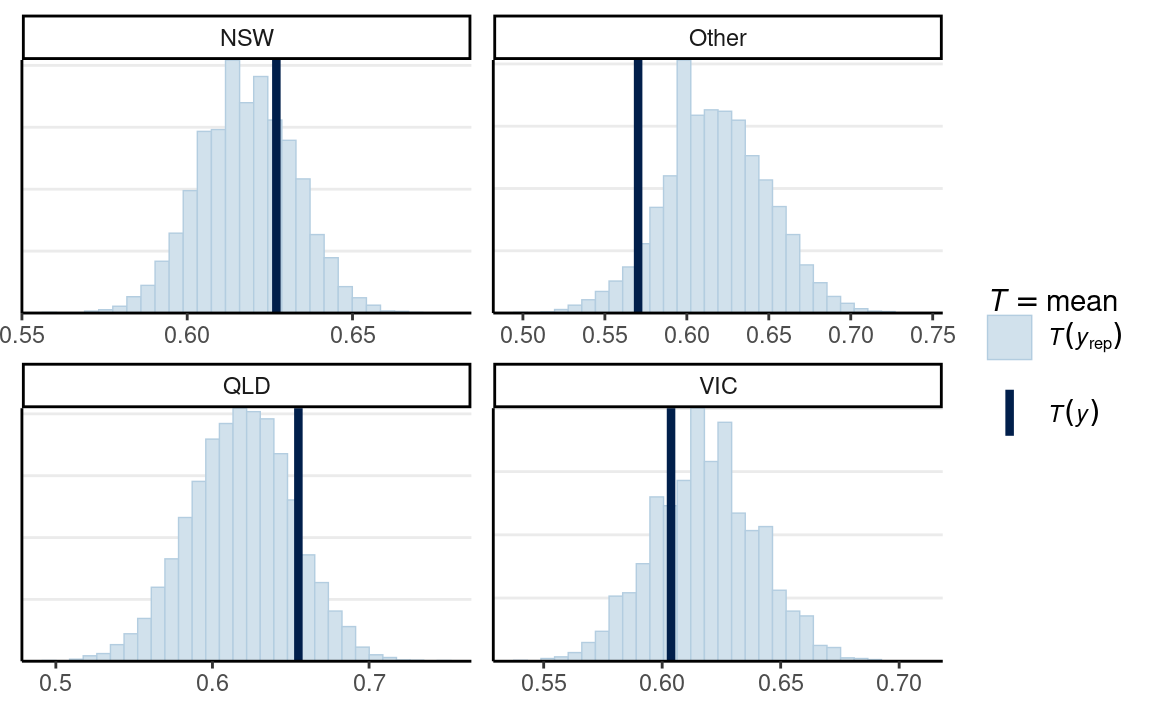
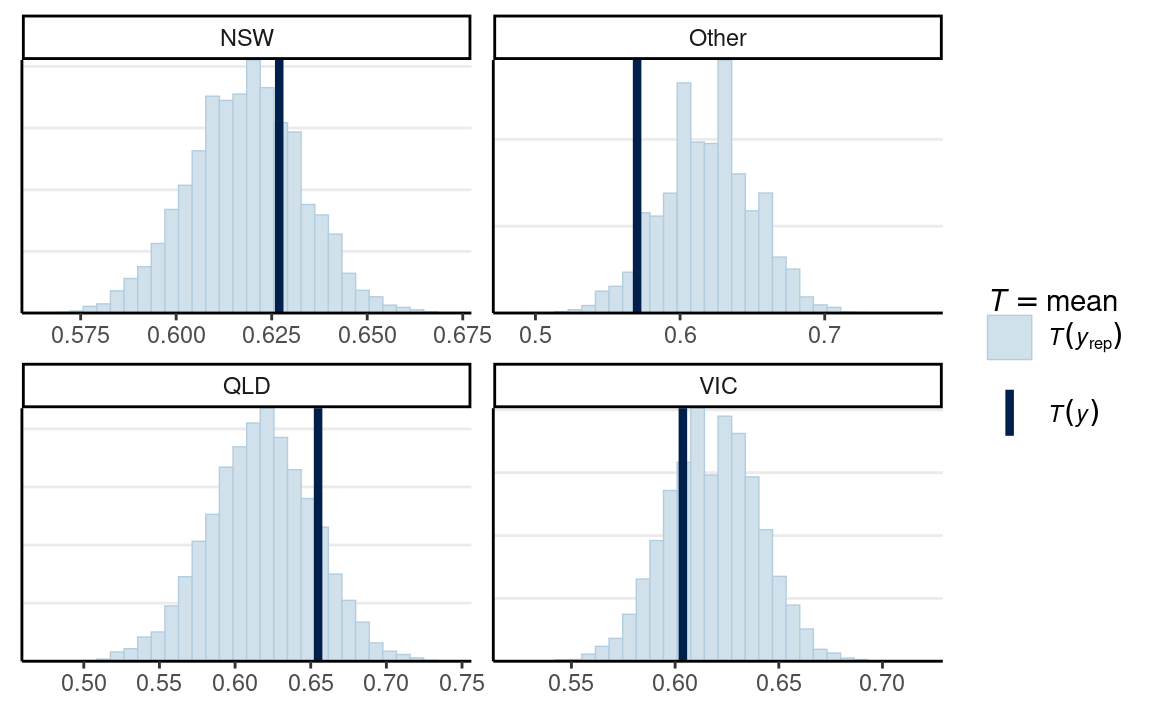
Set seed for Week 4 note

diff --git a/_site/beta_Bernoulli_model.html b/_site/beta_Bernoulli_model.html
@@ -2828,8 +2828,9 @@ When the data consist of observations that are binary, the variable is called a 
 <h3 id="summarize-the-posterior">Summarize the posterior</h3>
 <div class="layout-chunk" data-layout="l-body">
 <div class="sourceCode">
-<pre class="sourceCode r"><code class="sourceCode r"><span class='va'>num_draws</span> <span class='op'>&lt;-</span> <span class='fl'>1000</span>
-<span class='va'>sim_theta</span> <span class='op'>&lt;-</span> <span class='fu'><a href='https://rdrr.io/r/stats/Beta.html'>rbeta</a></span><span class='op'>(</span><span class='va'>num_draws</span>, shape1 <span class='op'>=</span> <span class='fl'>8</span>, shape2 <span class='op'>=</span> <span class='fl'>6</span><span class='op'>)</span>
+<pre class="sourceCode r"><code class="sourceCode r"><span class='fu'><a href='https://rdrr.io/r/base/Random.html'>set.seed</a></span><span class='op'>(</span><span class='fl'>2119</span><span class='op'>)</span>
+<span class='va'>num_draws</span> <span class='op'>&lt;-</span> <span class='fl'>1000</span>
+<span class='va'>sim_theta</span> <span class='op'>&lt;-</span> <span class='fu'><a href='https://rdrr.io/r/stats/Beta.html'>rbeta</a></span><span class='op'>(</span><span class='va'>num_draws</span>, shape1 <span class='op'>=</span> <span class='fl'>1807</span>, shape2 <span class='op'>=</span> <span class='fl'>1116</span><span class='op'>)</span>
 <span class='fu'><a href='https://rdrr.io/r/base/c.html'>c</a></span><span class='op'>(</span>`Bayes estimate` <span class='op'>=</span> <span class='fu'><a href='https://rdrr.io/r/base/mean.html'>mean</a></span><span class='op'>(</span><span class='va'>sim_theta</span><span class='op'>)</span>,
   `Posterior median` <span class='op'>=</span> <span class='fu'><a href='https://rdrr.io/r/stats/median.html'>median</a></span><span class='op'>(</span><span class='va'>sim_theta</span><span class='op'>)</span>,
   `Posterior SD` <span class='op'>=</span> <span class='fu'><a href='https://rdrr.io/r/stats/sd.html'>sd</a></span><span class='op'>(</span><span class='va'>sim_theta</span><span class='op'>)</span>,
@@ -2839,21 +2840,21 @@ When the data consist of observations that are binary, the variable is called a 
 </code></pre>
 </div>
 <pre><code>#&gt;                           Bayes estimate 
-#&gt;                                0.5683993 
+#&gt;                              0.618209694 
 #&gt;                         Posterior median 
-#&gt;                                0.5655762 
+#&gt;                              0.618382945 
 #&gt;                             Posterior SD 
-#&gt;                                0.1297508 
+#&gt;                              0.008829290 
 #&gt;                                      MAD 
-#&gt;                                0.1324126 
+#&gt;                              0.009254166 
 #&gt; 90% Credible interval (equal-tailed).10% 
-#&gt;                                0.3971719 
+#&gt;                              0.606862338 
 #&gt; 90% Credible interval (equal-tailed).90% 
-#&gt;                                0.7353907 
+#&gt;                              0.628990588 
 #&gt;                            90% HDI.lower 
-#&gt;                                0.3765909 
+#&gt;                              0.604051851 
 #&gt;                            90% HDI.upper 
-#&gt;                                0.8014843</code></pre>
+#&gt;                              0.632766654</code></pre>
 </div>
 <h3 id="posterior-predictive-check">Posterior Predictive Check</h3>
 <p>Now, we need to know whether the model fits the data well. We don’t have much to check for a Bernoulli model if we only have the <code>status</code> variable. However, as there is information for other variables, we can use them to check the exchangeability assumption. For example, we can ask whether the data from different state categories are exchangeable. The death rate across the 4 state categories are</p>
@@ -2970,7 +2971,7 @@ When the data consist of observations that are binary, the variable is called a 
 <section id="last-updated" class="appendix layout-chunk" data-layout="l-body">
 <h2 class="appendix">Last updated</h2>
 <div class="layout-chunk" data-layout="l-body">
-<pre><code>#&gt; [1] &quot;January 30, 2022&quot;</code></pre>
+<pre><code>#&gt; [1] &quot;February 07, 2022&quot;</code></pre>
 </div>
 <div class="layout-chunk" data-layout="l-body">
 

diff --git a/_site/modules.html b/_site/modules.html
@@ -2367,18 +2367,18 @@ code span.wa { color: #5e5e5e; font-style: italic; } /* Warning */
     color: var(--hover-color, white);
   }</style>
   <!--/radix_placeholder_distill-->
-  <script src="site_libs/header-attrs/header-attrs.js"></script>
-  <link href="site_libs/panelset/panelset.css" rel="stylesheet" />
-  <script src="site_libs/panelset/panelset.js"></script>
-  <script src="site_libs/fitvids/fitvids.min.js"></script>
-  <script src="site_libs/popper/popper.min.js"></script>
-  <link href="site_libs/tippy/tippy.css" rel="stylesheet" />
-  <link href="site_libs/tippy/tippy-light-border.css" rel="stylesheet" />
-  <script src="site_libs/tippy/tippy.umd.min.js"></script>
-  <script src="site_libs/anchor/anchor.min.js"></script>
-  <script src="site_libs/bowser/bowser.min.js"></script>
-  <script src="site_libs/webcomponents/webcomponents.js"></script>
-  <script src="site_libs/distill/template.v2.js"></script>
+  <script src="site_libs/header-attrs-2.11/header-attrs.js"></script>
+  <link href="site_libs/panelset-0.2.6/panelset.css" rel="stylesheet" />
+  <script src="site_libs/panelset-0.2.6/panelset.js"></script>
+  <script src="site_libs/fitvids-2.1.1/fitvids.min.js"></script>
+  <script src="site_libs/popper-2.6.0/popper.min.js"></script>
+  <link href="site_libs/tippy-6.2.7/tippy.css" rel="stylesheet" />
+  <link href="site_libs/tippy-6.2.7/tippy-light-border.css" rel="stylesheet" />
+  <script src="site_libs/tippy-6.2.7/tippy.umd.min.js"></script>
+  <script src="site_libs/anchor-4.2.2/anchor.min.js"></script>
+  <script src="site_libs/bowser-1.9.3/bowser.min.js"></script>
+  <script src="site_libs/webcomponents-2.0.0/webcomponents.js"></script>
+  <script src="site_libs/distill-2.2.21/template.v2.js"></script>
   <!--radix_placeholder_site_in_header-->
   <style type="text/css">
   html {

diff --git a/_site/Poisson_model.html b/_site/Poisson_model.html
@@ -2540,7 +2540,7 @@ Notes
 #&gt; 4 2018    990
 #&gt; 5 2019    999
 #&gt; 6 2020   1021
-#&gt; 7 2021   1014</code></pre>
+#&gt; 7 2021   1052</code></pre>
 </div>
 <h1 id="poisson-model">Poisson Model</h1>
 <p>Our interest is the rate of occurrence of fatal police shootings per year. Denote this as <span class="math inline">\(\theta\)</span>. The <em>support</em> of <span class="math inline">\(\theta\)</span> is <span class="math inline">\([0, \infty)\)</span>.</p>
@@ -2626,7 +2626,7 @@ Notes
 <pre><code>#&gt; # A tibble: 1 × 10
 #&gt;   variable  mean median    sd   mad    q5   q95  rhat ess_bulk
 #&gt;   &lt;chr&gt;    &lt;dbl&gt;  &lt;dbl&gt; &lt;dbl&gt; &lt;dbl&gt; &lt;dbl&gt; &lt;dbl&gt; &lt;dbl&gt;    &lt;dbl&gt;
-#&gt; 1 theta     994.   994.  11.6  11.4  975. 1012.  1.00    1075.
+#&gt; 1 theta     999.   999.  11.6  11.4  980. 1018.  1.00    1075.
 #&gt; # … with 1 more variable: ess_tail &lt;dbl&gt;</code></pre>
 </div>
 <p>So the estimated rate is 987 per year, with a 90% CI [967, 1006].</p>
